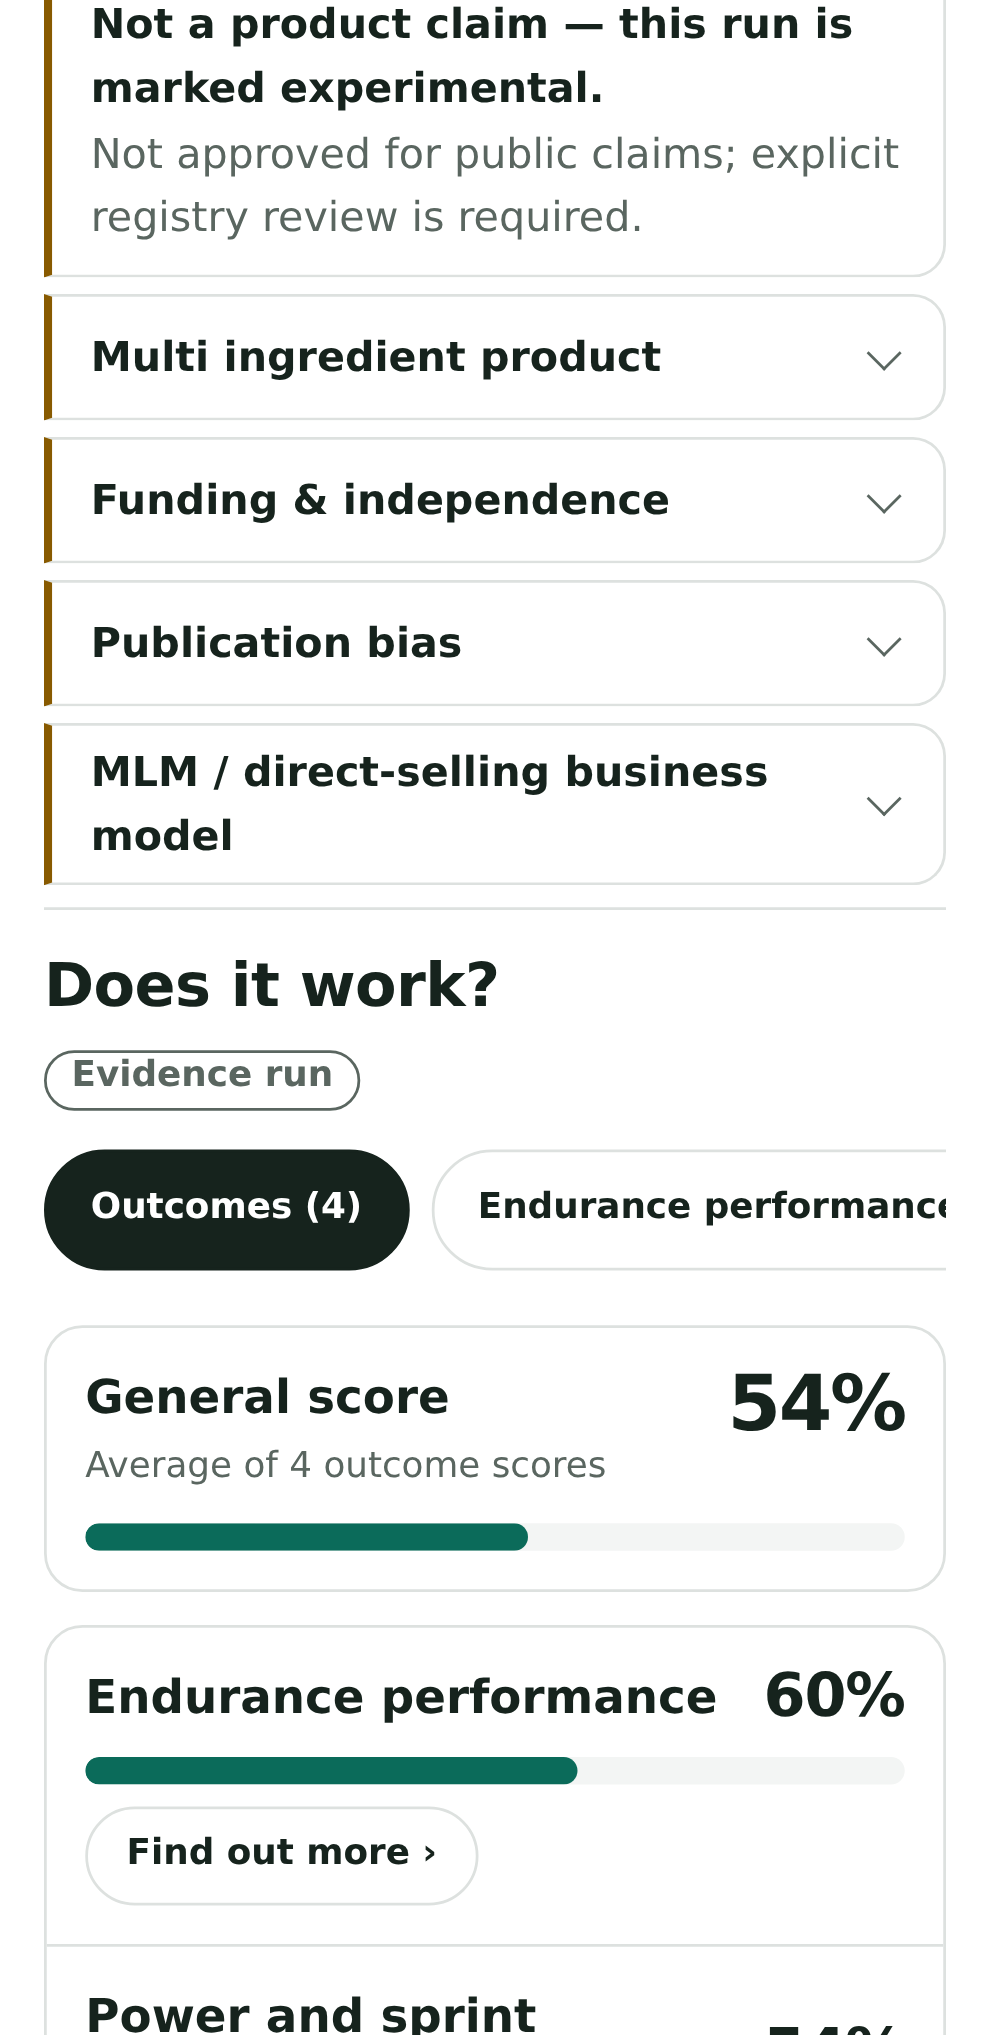
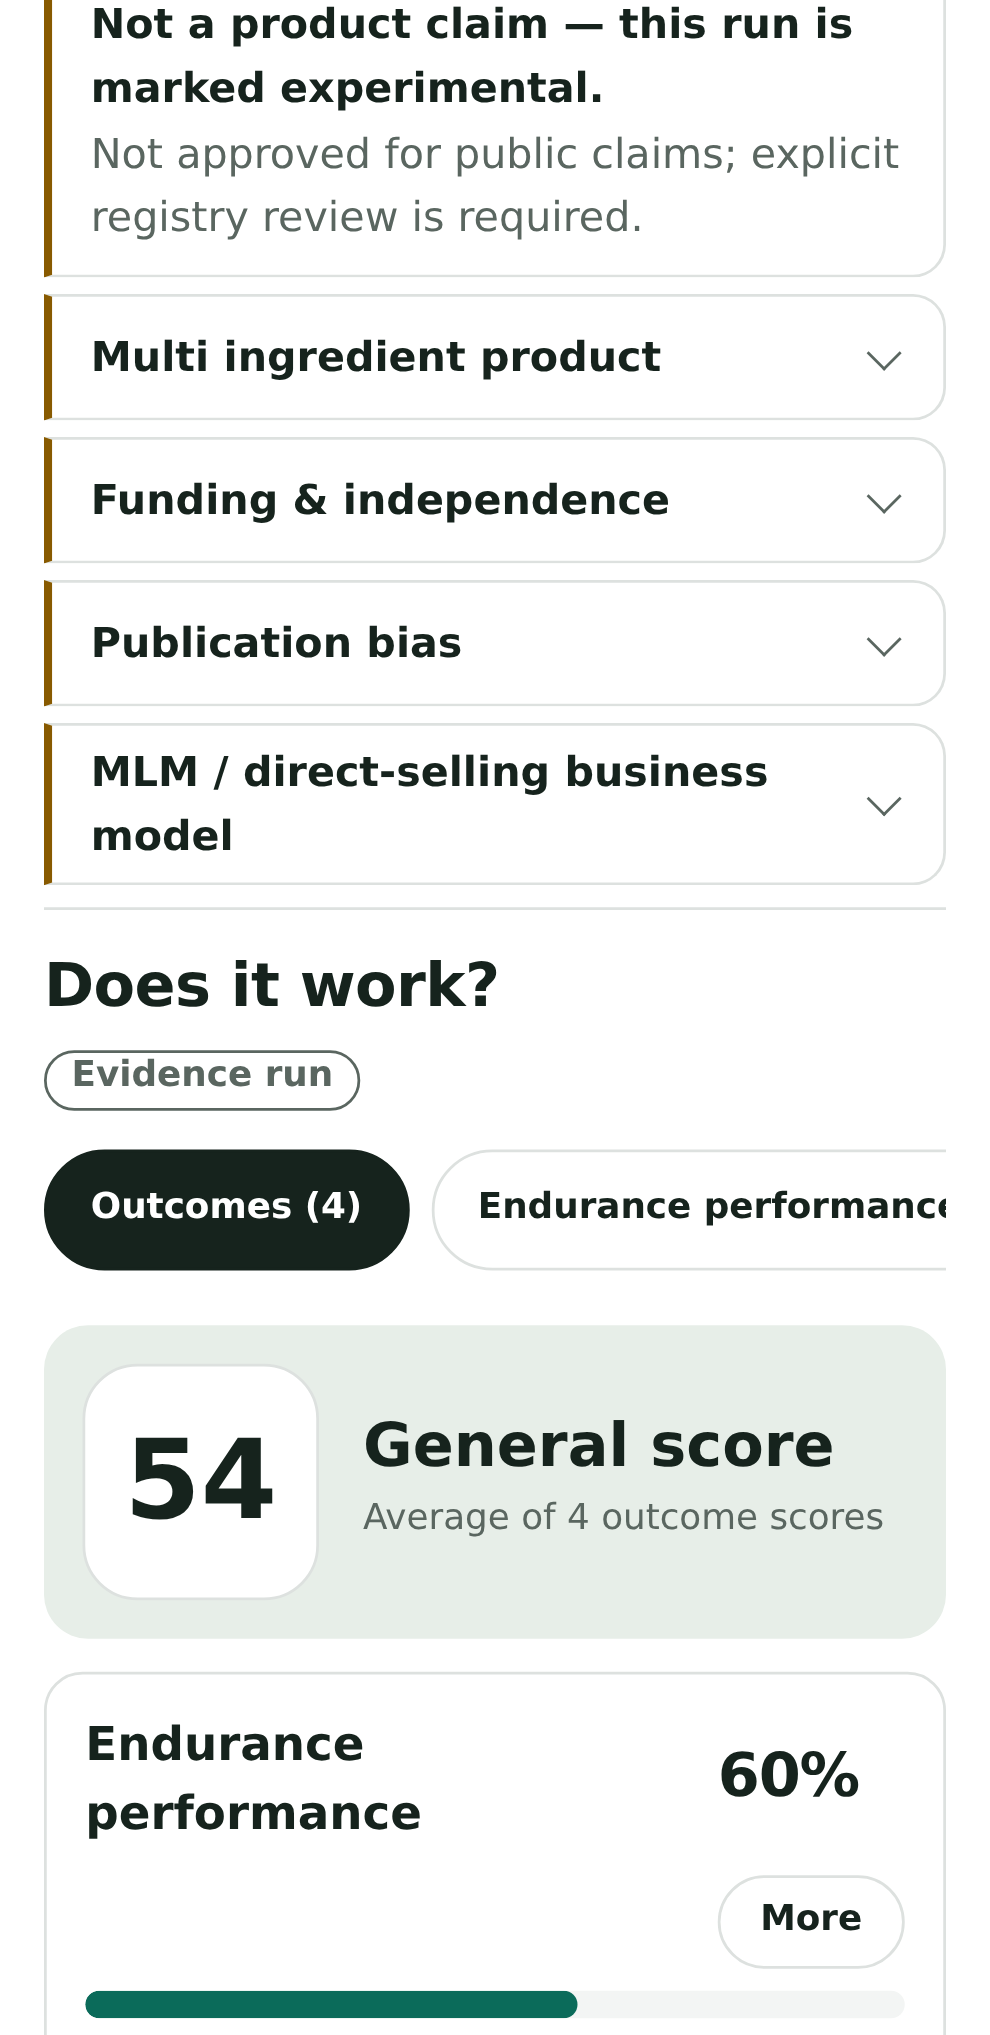
Preview: compact General score tile above Outcomes; position More below percentage and above progress bar
Matches founder reference: white rounded score square on pale green field with mean label beside it. Applied to lab A/B and /scan. Checked 437 tests, typecheck, lint (0 errors), build; no horizontal overflow at 360/390.

diff --git a/app/design-lab/ab/prototype.tsx b/app/design-lab/ab/prototype.tsx
@@ -295,14 +295,11 @@ export default function AbPrototype({ initial, publicTest = false }: AbPrototype
   const general = pickedHeadlines.length ? Math.round(pickedHeadlines.reduce((a, b) => a + b, 0) / pickedHeadlines.length) : null;
   const listBlock = (
     <div className="ab-listhead">
-      <h2>Outcomes</h2>
-      <div className="ab-general" role="img" aria-label={general === null ? "General score: no scored outcomes" : `General score ${general}%, average of ${pickedHeadlines.length} outcome scores`}>
-        <span className="ab-general-head">
-          <span className="ab-general-name">General score<small>Average of {pickedHeadlines.length} outcome score{pickedHeadlines.length === 1 ? "" : "s"}</small></span>
-          <strong className="ab-general-pts">{general === null ? "\u2014" : `${general}%`}</strong>
-        </span>
-        <span className={`ab-bar-track${general === null ? " hatch" : ""}`}>{general !== null && <i style={{ width: `${general}%`, background: "var(--ab-r1)" }} />}</span>
+      <div className="ab-general" role="img" aria-label={general === null ? "General score: no scored outcomes" : `General score ${general}, average of ${pickedHeadlines.length} outcome scores`}>
+        <strong className="ab-general-score">{general === null ? "\u2014" : general}</strong>
+        <span className="ab-general-name">General score<small>Average of {pickedHeadlines.length} outcome score{pickedHeadlines.length === 1 ? "" : "s"}</small></span>
       </div>
+      <h2>Outcomes</h2>
     </div>
   );
   const detailBlock = cur ? (
@@ -376,5 +373,5 @@ export default function AbPrototype({ initial, publicTest = false }: AbPrototype
     {layout === "hero" && <>{header}{photo}{tabs}<section className="ab-card">{block}{warnings}{bars}{gates}</section></>}
     {layout === "overlap" && <>{photo}<div className="ab-overlap-wrap">{header}{block}</div>{tabs}{warnings}<section className="ab-card">{bars}{gates}</section></>}
   </div></div>
-  <aside className="ab-notes"><span className="ab-kicker">THE TWO PLACEMENTS</span><h3>1 · Hero</h3><p>Photo first, big and calm. The outcome list sits under it. Most “product page” feeling.</p><h3>2 · Overlap</h3><p>Full-bleed photo; the block floats over its bottom edge. Most editorial, least whitespace.</p><p className="ab-fine">Middle and Split were dropped 2026-09-16 (founder pick).</p><h3>Outcomes first</h3><p>Landing tab. A <b>General score</b> bar sits on top: the plain mean of the outcome scores, labelled as an average and never given a band word (founder decision 2026-09-16; it replaces the 2026-09-11 “no overall number” rule). Each row is a question in a named population, drawn as a progress bar with its score as a percentage; <i>More</i> opens that outcome’s tab.</p><h3>The Effect bar</h3><p>Never a tier fill. When a source reported an estimate and an interval, the interval is drawn in its own unit and labelled <i>reported estimate, not a grade</i>. With an estimate and no interval, the point is drawn and the interval is called unavailable. Otherwise the track is hatched and reads <i>size not graded</i> — which is not the same as <i>no evidence found</i> or <i>no meaningful benefit</i>.</p></aside></main>;
+  <aside className="ab-notes"><span className="ab-kicker">THE TWO PLACEMENTS</span><h3>1 · Hero</h3><p>Photo first, big and calm. The outcome list sits under it. Most “product page” feeling.</p><h3>2 · Overlap</h3><p>Full-bleed photo; the block floats over its bottom edge. Most editorial, least whitespace.</p><p className="ab-fine">Middle and Split were dropped 2026-09-16 (founder pick).</p><h3>Outcomes first</h3><p>Landing tab. A compact <b>General score</b> tile sits directly above Outcomes: the plain mean of the outcome scores, labelled as an average and never given a band word (founder decision 2026-09-16; it replaces the 2026-09-11 “no overall number” rule). Each row is a question in a named population, drawn as a progress bar with its score as a percentage; <i>More</i> opens that outcome’s tab.</p><h3>The Effect bar</h3><p>Never a tier fill. When a source reported an estimate and an interval, the interval is drawn in its own unit and labelled <i>reported estimate, not a grade</i>. With an estimate and no interval, the point is drawn and the interval is called unavailable. Otherwise the track is hatched and reads <i>size not graded</i> — which is not the same as <i>no evidence found</i> or <i>no meaningful benefit</i>.</p></aside></main>;
 }

diff --git a/app/globals.css b/app/globals.css
@@ -1333,11 +1333,11 @@ body:has(.scan-page) .footer-inner p:last-child { display: none; }
 .scan-page .sc-outcome-row-name strong { font-size: var(--fs-3); font-weight: 600; }
 .scan-page .sc-outcome-row-score { grid-column: 2; grid-row: 1; font-variant-numeric: tabular-nums; }
 .scan-page .sc-outcome-row-score strong { font-size: var(--fs-4); font-weight: 700; letter-spacing: -0.02em; line-height: 1; }
-.scan-page .sc-outcome-row-track { grid-column: 1 / 3; grid-row: 2; display: block; height: 10px; border-radius: 999px; background: var(--sp-tint); overflow: hidden; }
+.scan-page .sc-outcome-row-track { grid-column: 1 / 3; grid-row: 3; display: block; height: 10px; border-radius: 999px; background: var(--sp-tint); overflow: hidden; }
 .scan-page .sc-outcome-row-gated .sc-outcome-row-track { background: repeating-linear-gradient(135deg, var(--sp-tint) 0 5px, transparent 5px 9px); border: 1px dashed var(--sp-line); }
 .scan-page .sc-outcome-row-fill { display: block; height: 100%; border-radius: 999px; background: var(--sp-measured); }
 .scan-page .sc-outcome-row-more {
-  grid-column: 2; grid-row: 3; justify-self: end; display: inline-flex; align-items: center; justify-content: center; min-width: 68px; min-height: 36px; padding: 0 14px;
+  grid-column: 2; grid-row: 2; justify-self: end; display: inline-flex; align-items: center; justify-content: center; min-width: 68px; min-height: 34px; padding: 0 14px;
   border: 1px solid var(--sp-line); border-radius: 999px; background: var(--sp-white); font-size: var(--fs-1); font-weight: 600; color: var(--sp-ink);
 }
 .scan-page .sc-outcome-row:hover .sc-outcome-row-more { background: var(--sp-ink); color: var(--sp-white); border-color: var(--sp-ink); }
@@ -1346,12 +1346,9 @@ body:has(.scan-page) .footer-inner p:last-child { display: none; }
   background: var(--sp-white); color: var(--sp-ink); font: inherit; font-size: var(--fs-1); font-weight: 600; cursor: pointer;
 }
 
-/* General score above the Outcomes list: mean of outcome composites, drawn as a bar. */
-.scan-page .sc-general { display: grid; gap: 10px; padding: 14px; border: 1px solid var(--sp-line); border-radius: 14px; background: var(--sp-white); }
-.scan-page .sc-general-head { display: flex; justify-content: space-between; align-items: flex-start; gap: 12px; }
-.scan-page .sc-general-name { display: grid; gap: 2px; }
-.scan-page .sc-general-name strong { font-size: var(--fs-3); font-weight: 600; }
-.scan-page .sc-general-name small { font-size: var(--fs-1); color: var(--sp-mute); }
-.scan-page .sc-general-pts { font-size: var(--fs-5); font-weight: 700; letter-spacing: -0.03em; line-height: 1; font-variant-numeric: tabular-nums; }
-.scan-page .sc-general .sc-outcome-row-track { grid-column: auto; grid-row: auto; }
-.scan-page .sc-track-hatch { background: repeating-linear-gradient(135deg, var(--sp-tint) 0 5px, transparent 5px 9px); border: 1px dashed var(--sp-line); }
+/* General score immediately above the Outcomes list: compact score tile. */
+.scan-page .sc-general { display: grid; grid-template-columns: 86px 1fr; align-items: center; gap: 16px; padding: 14px; border-radius: 16px; background: #e7eee8; }
+.scan-page .sc-general-score { display: grid; place-items: center; width: 86px; height: 86px; border: 1px solid var(--sp-line); border-radius: 20px; background: var(--sp-white); font-size: var(--fs-6); font-weight: 700; line-height: 1; font-variant-numeric: tabular-nums; }
+.scan-page .sc-general-name { display: grid; gap: 5px; }
+.scan-page .sc-general-name strong { font-size: var(--fs-4); font-weight: 700; line-height: 1.05; }
+.scan-page .sc-general-name small { font-size: var(--fs-1); line-height: 1.4; color: var(--sp-mute); }

diff --git a/app/design-lab/ab/ab.css b/app/design-lab/ab/ab.css
@@ -90,12 +90,10 @@ body:has(.ab-stage)>.site-header,body:has(.ab-stage)>.site-footer{display:none}
 .ab-listhead{display:grid;gap:6px;padding:0 0 10px;border-bottom:1px solid var(--ab-line);margin-bottom:4px}
 .ab-listhead h2{font-size:22px}
 .ab-listhead p{font-size:12px;line-height:1.45;color:var(--ab-muted)}
-.ab-general{display:grid;gap:8px;padding:8px 0 6px}
-.ab-general-head{display:flex;justify-content:space-between;align-items:flex-start;gap:12px}
-.ab-general-name{font-weight:650;font-size:14px;display:grid;gap:2px}
-.ab-general-name small{font-weight:500;font-size:11px;color:var(--ab-muted)}
-.ab-general-pts{font-size:20px;font-variant-numeric:tabular-nums;line-height:1}
-.ab-general .ab-bar-track{grid-column:auto;grid-row:auto}
+.ab-general{display:grid;grid-template-columns:76px 1fr;align-items:center;gap:14px;padding:12px;border-radius:14px;background:#e5eddc}
+.ab-general-score{display:grid;place-items:center;width:76px;height:76px;border:1px solid var(--ab-line);border-radius:18px;background:var(--ab-surface);font-size:34px;line-height:1;font-variant-numeric:tabular-nums}
+.ab-general-name{font-weight:700;font-size:17px;line-height:1.05;display:grid;gap:5px}
+.ab-general-name small{font-weight:500;font-size:11px;line-height:1.35;color:var(--ab-muted)}
 .ab-stamp{font-size:11px;line-height:1.4;color:var(--ab-muted);background:var(--ab-soft);border-radius:8px;padding:5px 8px}
 .ab-pop{font-size:11.5px;line-height:1.35;color:var(--ab-muted);margin-bottom:4px}
 .ab-headline .ab-stamp{margin-top:6px}
@@ -138,8 +136,8 @@ body:has(.ab-stage)>.site-header,body:has(.ab-stage)>.site-footer{display:none}
 .ab-bars.outcomes .ab-bar-word{grid-column:1;grid-row:1;justify-self:end;align-self:start;margin-right:8px}
 .ab-bars.outcomes .ab-bar-word:empty{display:none}
 .ab-bars.outcomes .ab-bar-pts{grid-column:2;grid-row:1;font-size:14px;align-self:start}
-.ab-bars.outcomes .ab-bar-track{grid-column:1/3;grid-row:2}
-.ab-more{grid-column:2;grid-row:3;justify-self:end;display:inline-flex;align-items:center;justify-content:center;min-width:62px;min-height:32px;padding:0 12px;border:1px solid var(--ab-line);border-radius:999px;font-size:12px;font-weight:650;color:var(--ab-ink,inherit);background:var(--ab-surface)}
+.ab-more{grid-column:2;grid-row:2;justify-self:end;display:inline-flex;align-items:center;justify-content:center;min-width:62px;min-height:30px;padding:0 12px;border:1px solid var(--ab-line);border-radius:999px;font-size:12px;font-weight:650;color:var(--ab-ink,inherit);background:var(--ab-surface)}
+.ab-bars.outcomes .ab-bar-track{grid-column:1/3;grid-row:3}
 .ab-bars.outcomes li>button:hover .ab-more{background:var(--ab-track)}
 .ab-bars.outcomes .ab-bar-name{overflow:hidden}
 .ab-bars.outcomes .ab-bar-name>small{white-space:normal}

diff --git a/components/scan-flow.tsx b/components/scan-flow.tsx
@@ -329,16 +329,11 @@ function OutcomeTabs({ rows }: { rows: EvidenceRow[] }) {
               const scores = rows.map((r) => r.composite).filter((c): c is number => typeof c === "number");
               const general = scores.length ? Math.round(scores.reduce((a, b) => a + b, 0) / scores.length) : null;
               return (
-                <div className="sc-general" role="img" aria-label={general === null ? "General score: no scored outcomes" : `General score ${general}%, average of ${scores.length} outcome scores`}>
-                  <span className="sc-general-head">
-                    <span className="sc-general-name">
-                      <strong>General score</strong>
-                      <small>Average of {scores.length} outcome score{scores.length === 1 ? "" : "s"}</small>
-                    </span>
-                    <strong className="sc-general-pts">{general === null ? "\u2014" : `${general}%`}</strong>
-                  </span>
-                  <span className={`sc-outcome-row-track${general === null ? " sc-track-hatch" : ""}`} aria-hidden="true">
-                    <span className="sc-outcome-row-fill" style={{ width: `${general ?? 0}%` }} />
+                <div className="sc-general" role="img" aria-label={general === null ? "General score: no scored outcomes" : `General score ${general}, average of ${scores.length} outcome scores`}>
+                  <strong className="sc-general-score">{general === null ? "\u2014" : general}</strong>
+                  <span className="sc-general-name">
+                    <strong>General score</strong>
+                    <small>Average of {scores.length} outcome score{scores.length === 1 ? "" : "s"}</small>
                   </span>
                 </div>
               );

diff --git a/tests/scan-result-state.test.tsx b/tests/scan-result-state.test.tsx
@@ -168,7 +168,7 @@ describe("/scan result state", () => {
     const composites = fixture.evidence.rows.map((r) => r.composite).filter((c): c is number => typeof c === "number");
     const mean = Math.round(composites.reduce((a, b) => a + b, 0) / composites.length);
     const general = el.querySelector(".sc-general");
-    expect(general?.textContent).toContain(`${mean}%`);
+    expect(general?.querySelector(".sc-general-score")?.textContent).toBe(String(mean));
     expect(general?.textContent).toContain(`Average of ${composites.length} outcome scores`);
 
     // Tapping a row opens that outcome's tab with exactly one card.

diff --git a/docs/design/2026-09-16-scan-design-system.md b/docs/design/2026-09-16-scan-design-system.md
@@ -289,8 +289,6 @@ with all cards stacked). Screenshots: `docs/design/ref/tabs-preview/`.
 ### Outcomes list, revised (founder, 2026-09-16 evening)
 Rows are progress bars: name, score as a percentage, bar filled to it, and a
 compact `More` button beneath the percentage, opening that outcome's tab. Visible legacy “Test rubric” stamps are removed from the card. The verdict word is gone
-from the list (bar + number carry it). Above the list sits a **General score**
-bar — the plain mean of the outcome composites, labelled "Average of N outcome
-scores". This reverses the 2026-09-11 "no overall number" rule by founder
+from the list (bar + number carry it). Immediately above the Outcomes heading/list sits a compact **General score** tile: the mean in a white rounded square, with "Average of N outcome scores" beside it. This reverses the 2026-09-11 "no overall number" rule by founder
 decision; the label is the guard against reading it as a verdict. Same
 treatment in `app/design-lab/ab` (Hero + Overlap layouts only).
